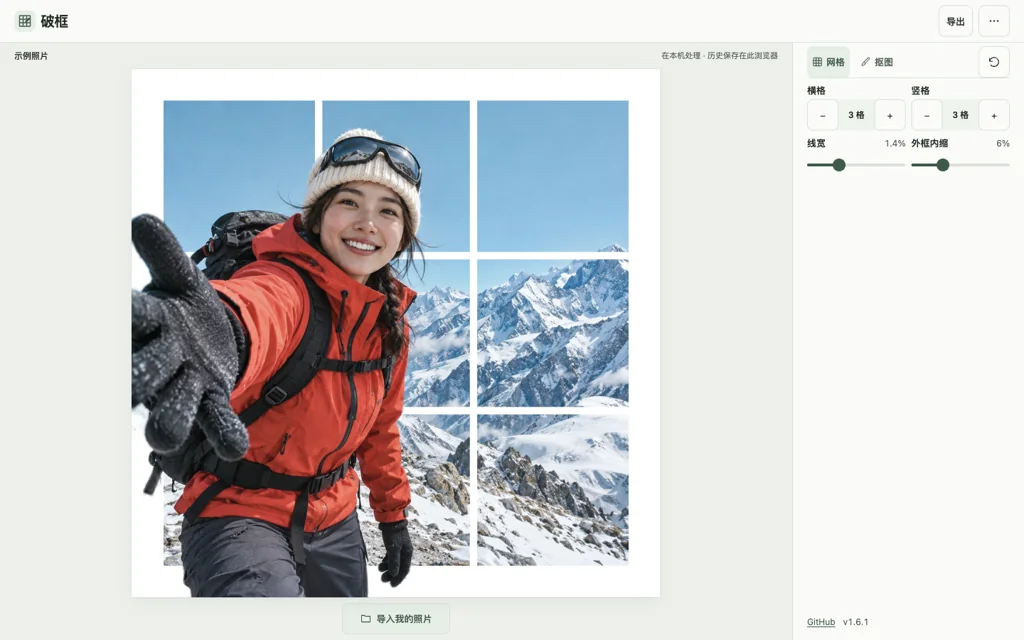
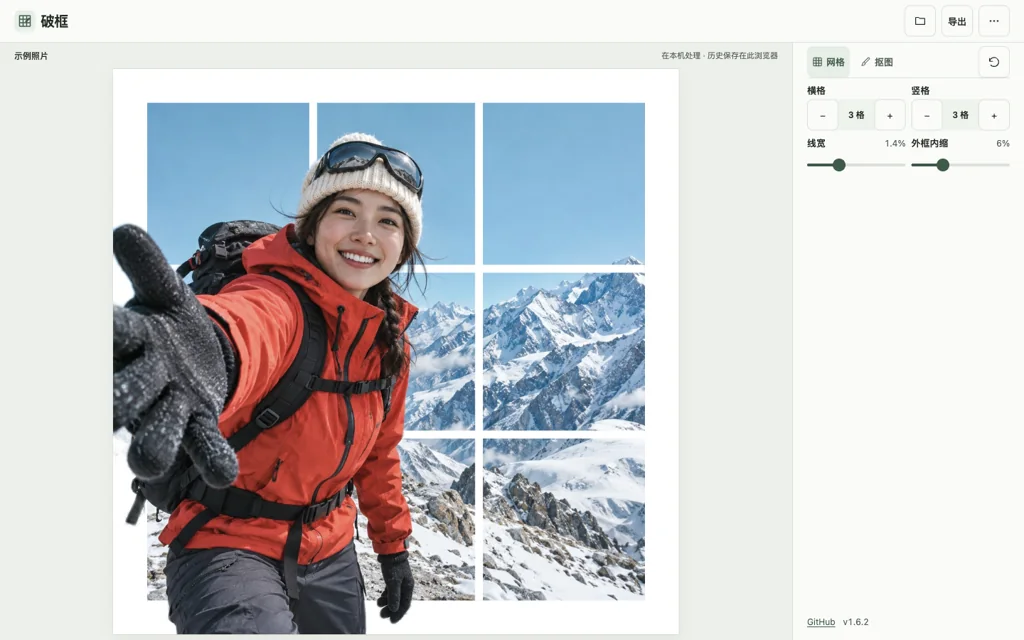
Publish Photo Breakout 1.6.2 (8591fbf)

Changed region(s): [[0.0938, 0.125, 0.6562, 1.0]]

diff --git a/photo-breakout/src/app.js b/photo-breakout/src/app.js
@@ -32,7 +32,7 @@ function historyButton() {
 }
 function header() {
   return '<header class="app-head"><div class="brand"><div class="mark">' + icon('logo') + '</div><h1>破框</h1></div>' +
-    '<div class="head-actions"><button type="button" class="btn header-import icon-only" data-action="open" aria-label="导入照片">' +
+    '<div class="head-actions"><button type="button" class="btn header-import" data-action="open" aria-label="导入照片">' +
     icon('folder') + '<span hidden>导入</span></button>' +
     '<button type="button" class="btn" data-action="export" disabled>导出</button>' +
     '<button type="button" class="btn icon-only more-button" popovertarget="editor-more" aria-controls="editor-more" aria-label="更多操作">' + icon('more') + '</button></div>' +
@@ -68,10 +68,7 @@ function preview() {
     button('restore', '撤销', null) + '</div>' +
     '<p id="mask-keys" class="sr-only">用方向键移动画笔，按空格落笔。按住 Shift 可加快移动。按 Tab 退出画布。</p>' +
     '<p class="sr-only" data-brush-position role="status"></p>' +
-    '<div class="empty-photo" data-empty>' + icon('folder') + button('open', '打开照片', null, 'primary') +
-    '<span class="subtle">可一次选择多张</span></div></div>' +
-    '<div class="sample-guide" data-sample-guide hidden>' +
-    button('open', '导入我的照片', 'folder', 'primary') + '</div>' +
+    '<p class="subtle" data-empty>从顶栏导入照片，可一次选择多张</p></div>' +
     '<section id="photo-history" class="history" aria-label="编辑历史" data-history hidden>' +
     '<button type="button" class="btn history-arrow" data-history-step="-1" aria-label="上一页历史" hidden>‹</button>' +
     '<div class="filmstrip" data-filmstrip></div>' +
@@ -534,11 +531,8 @@ function sync() {
   app.querySelector('.filename').hidden = !state.filename;
   app.querySelector('[data-photo-wrap]').hidden = !ready;
   app.querySelector('[data-empty]').hidden = ready || !!selectedID;
-  app.querySelector('[data-sample-guide]').hidden = !showingSample;
   const headerImport = app.querySelector('.header-import');
   const hasSelectedPhoto = Boolean(selectedID);
-  headerImport.hidden = showingSample;
-  headerImport.classList.toggle('icon-only', !hasSelectedPhoto);
   headerImport.querySelector('svg').toggleAttribute('hidden', hasSelectedPhoto);
   headerImport.querySelector('span').hidden = !hasSelectedPhoto;
   const message = workspaceMessage(ready);

diff --git a/photo-breakout/src/style.css b/photo-breakout/src/style.css
@@ -99,10 +99,6 @@ canvas[data-edit=true]:focus + .brush-cursor { display: block; }
 }
 .removal-recovery span { overflow: hidden; text-overflow: ellipsis; white-space: nowrap; }
 .removal-recovery .btn { min-height: 44px; min-width: 48px; padding: 0 9px; flex: none; }
-.sample-guide {
-  align-self: center; display: flex; flex-wrap: wrap; align-items: center; justify-content: center;
-  gap: 10px; color: var(--muted); font-size: 13px;
-}
 .inspector {
   min-height: 0; overflow-y: auto; display: flex; flex-direction: column;
   padding: 16px 20px; border-left: 1px solid var(--line);
@@ -163,7 +159,6 @@ dialog h2 { font-size: 21px; letter-spacing: -.04em; }
   flex: 1; min-height: 0; gap: 6px;
   padding: 5px max(8px, env(safe-area-inset-right)) 7px max(8px, env(safe-area-inset-left));
 }
-.mobile .sample-guide .btn { min-height: 44px; }
 .tool-head { display: flex; justify-content: space-between; gap: 12px; border-bottom: 1px solid var(--line); }
 .tool-switch { display: flex; gap: 17px; }
 .tool-switch button {
@@ -205,10 +200,6 @@ dialog h2 { font-size: 21px; letter-spacing: -.04em; }
   .btn { transition: none; }
 }
 
-.empty-photo {
-  display: grid; justify-items: center; gap: 12px; align-content: center;
-}
-.empty-photo > svg { width: 34px; height: 34px; color: var(--accent); }
 .history {
   display: flex; min-width: 0; align-items: center; gap: 10px;
   border-top: 1px solid var(--line); padding-top: 5px;

diff --git a/photo-breakout/src/workbench.css b/photo-breakout/src/workbench.css
@@ -57,6 +57,7 @@ body[data-workbench] .app-head {
   padding: max(5px, env(safe-area-inset-top)) max(var(--rail), env(safe-area-inset-right)) 5px max(var(--rail), env(safe-area-inset-left));
 }
 body[data-workbench] .head-actions { grid-column: 2/-1; justify-content: end; gap: var(--gap); }
+body[data-workbench] .head-actions .btn { width: var(--tap); padding-inline: 0; }
 body[data-workbench] :is(.head-actions .btn svg, .tool-head .btn.icon-only svg) { display: block; width: 17px; height: 17px; }
 body[data-workbench] .workstage {
   padding: var(--gap) var(--rail); gap: var(--gap);
@@ -75,8 +76,6 @@ body[data-workbench] .workstage {
 .workspace-meta .filename[hidden] + .workspace-status { grid-column: 1/-1; text-align: left; }
 
 body[data-workbench] .image-wrap { box-shadow: 0 6px 22px #23332b12, 0 0 0 1px #23332b16; }
-body[data-workbench] .sample-guide { gap: var(--gap); width: 100%; }
-body[data-workbench] .sample-guide .btn { min-width: 152px; }
 
 body[data-workbench] .inspector { padding-inline: var(--rail); padding-block-start: 5px; }
 body[data-workbench] .mobile .inspector { padding-bottom: max(5px, env(safe-area-inset-bottom)); }

diff --git a/photo-breakout/index.html b/photo-breakout/index.html
@@ -13,7 +13,7 @@
   <script defer src="https://cloud.umami.is/script.js" data-website-id="e01c9f78-4607-4e60-b01c-77c8190b12b4"></script>
 </head>
 <body data-workbench>
-  <div id="stage" data-version="v1.6.1"></div>
+  <div id="stage" data-version="v1.6.2"></div>
   <div id="status" class="status" role="status" hidden></div>
   <input type="file" id="local-file" accept="image/*" multiple hidden>
   <dialog id="guide-dialog" aria-labelledby="guide-title">
